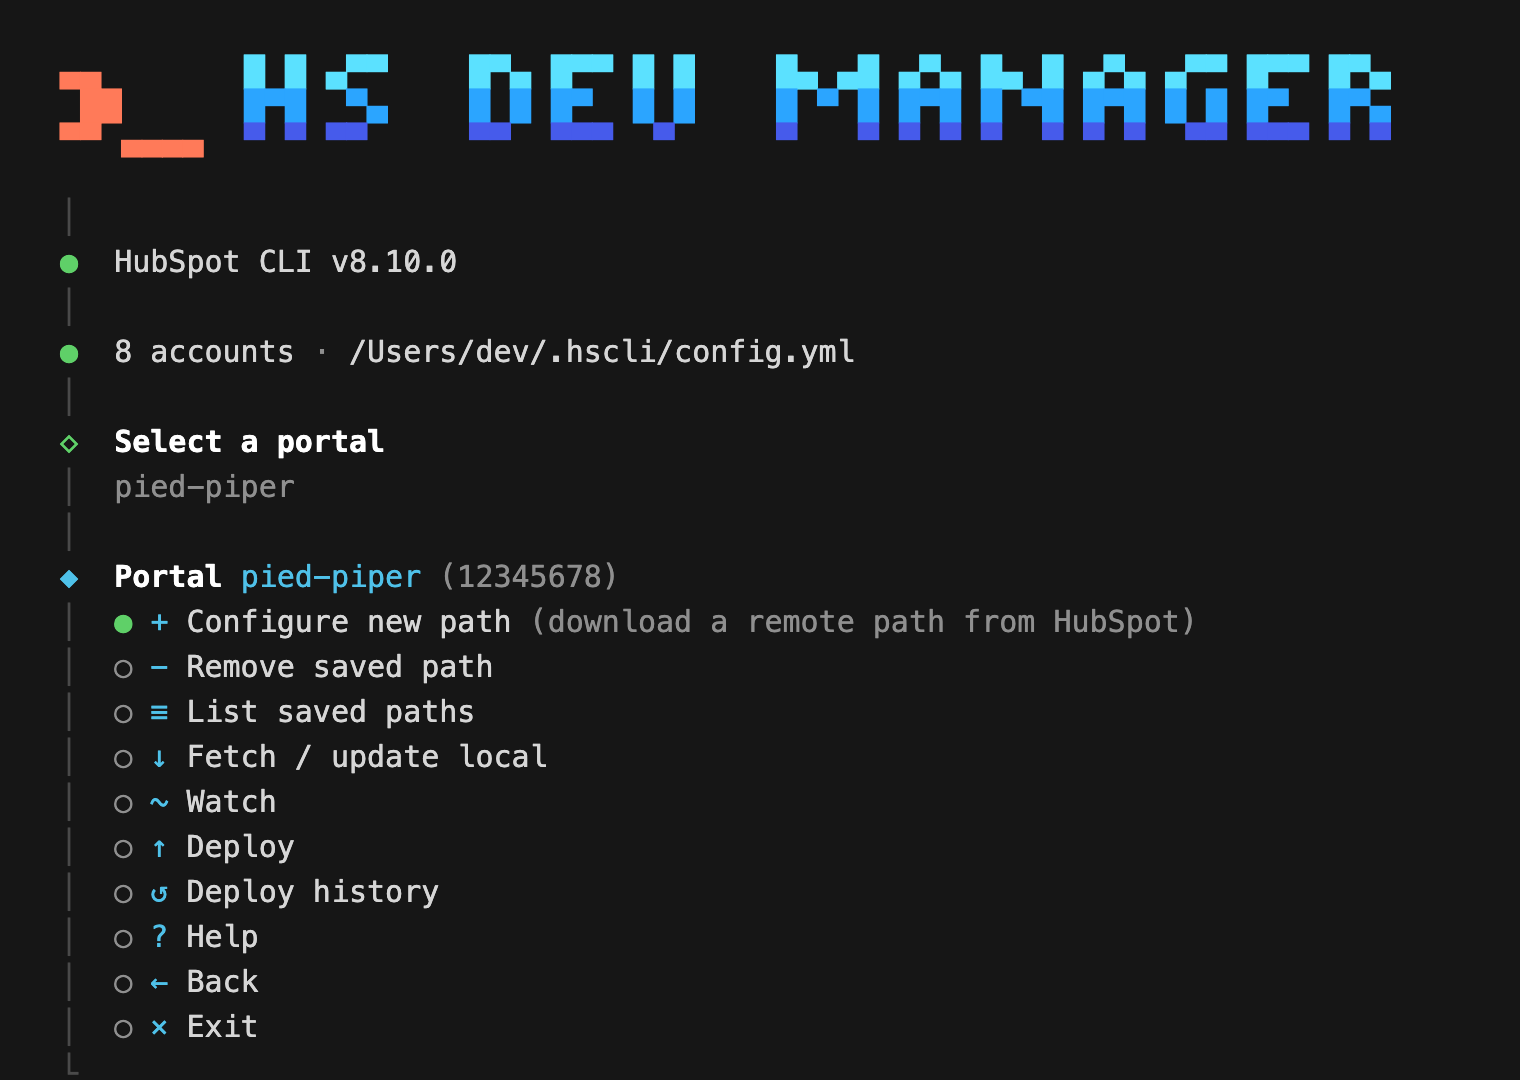
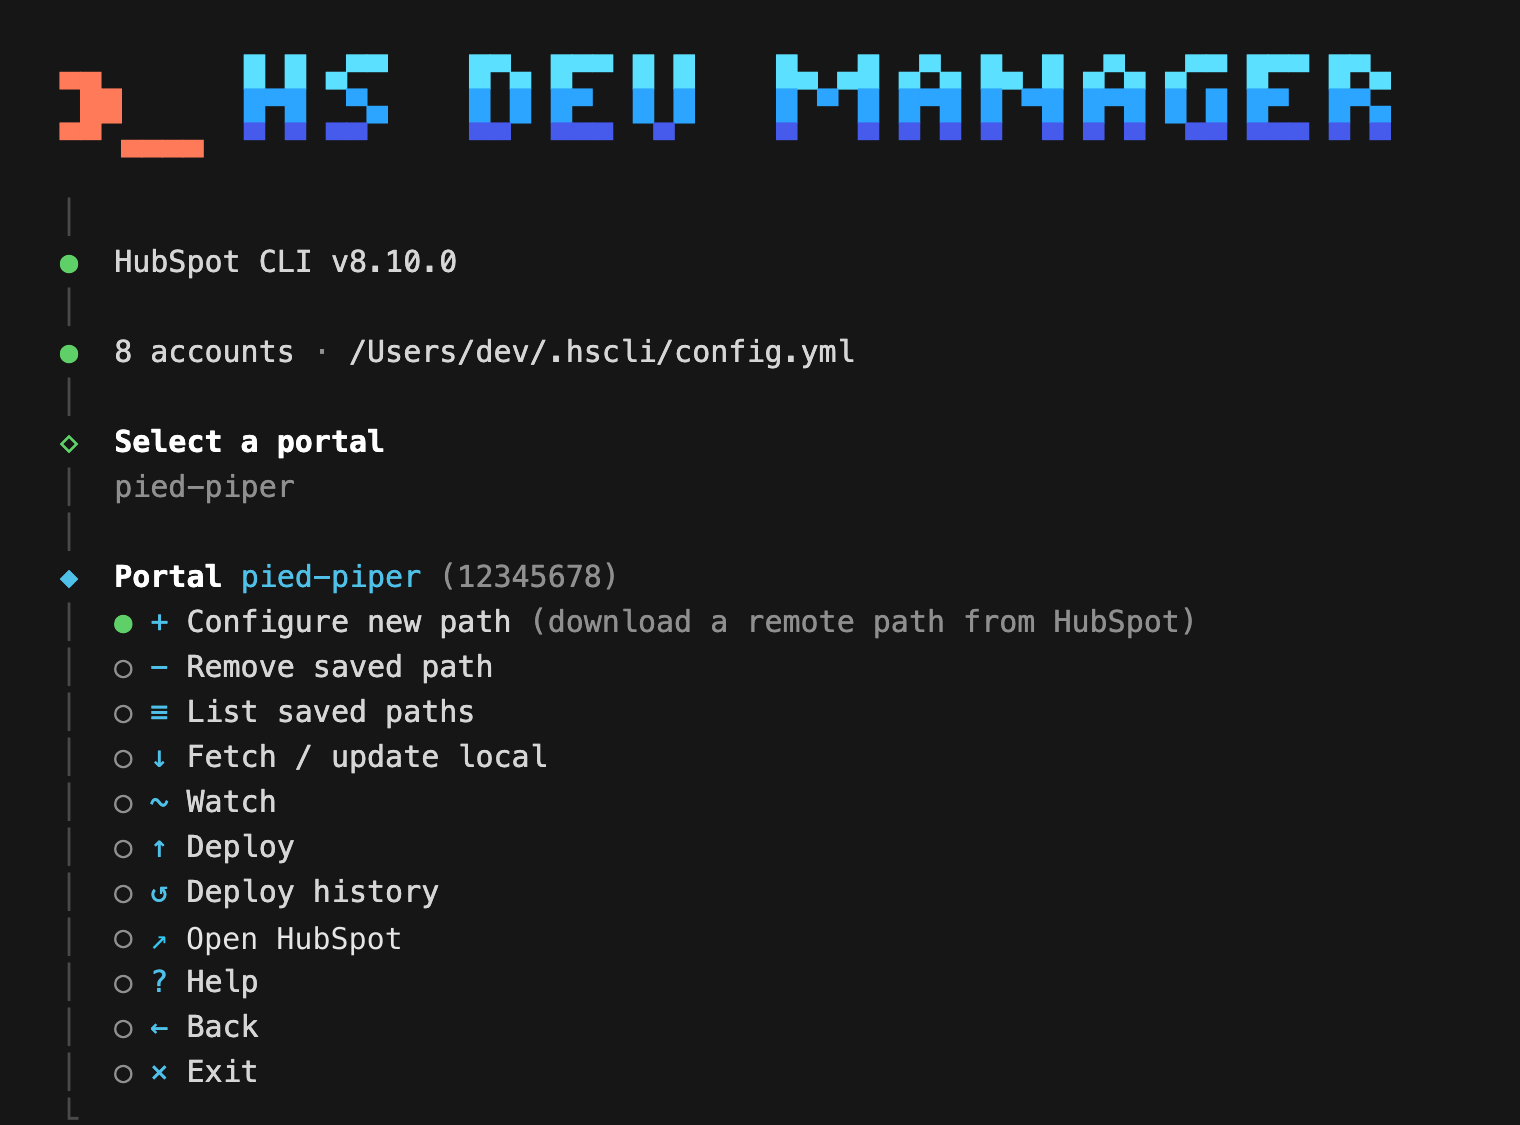
Polish npm package presentation

diff --git a/README.md b/README.md
@@ -6,10 +6,6 @@
 [![npm version](https://img.shields.io/npm/v/hs-dev-manager)](https://www.npmjs.com/package/hs-dev-manager)
 [![node](https://img.shields.io/node/v/hs-dev-manager)](https://nodejs.org)
 [![license](https://img.shields.io/npm/l/hs-dev-manager)](./LICENSE)
-[![types](https://img.shields.io/badge/types-TypeScript-blue)](https://www.typescriptlang.org/)
-[![downloads](https://img.shields.io/npm/dm/hs-dev-manager)](https://www.npmjs.com/package/hs-dev-manager)
-[![install size](https://packagephobia.com/badge?p=hs-dev-manager)](https://packagephobia.com/result?p=hs-dev-manager)
-[![PRs welcome](https://img.shields.io/badge/PRs-welcome-brightgreen.svg)](https://github.com/robstermarinho/hs-dev-manager/pulls)
 
 Interactive CLI for fetching, watching, and deploying HubSpot Design Manager files across multiple accounts.
 
